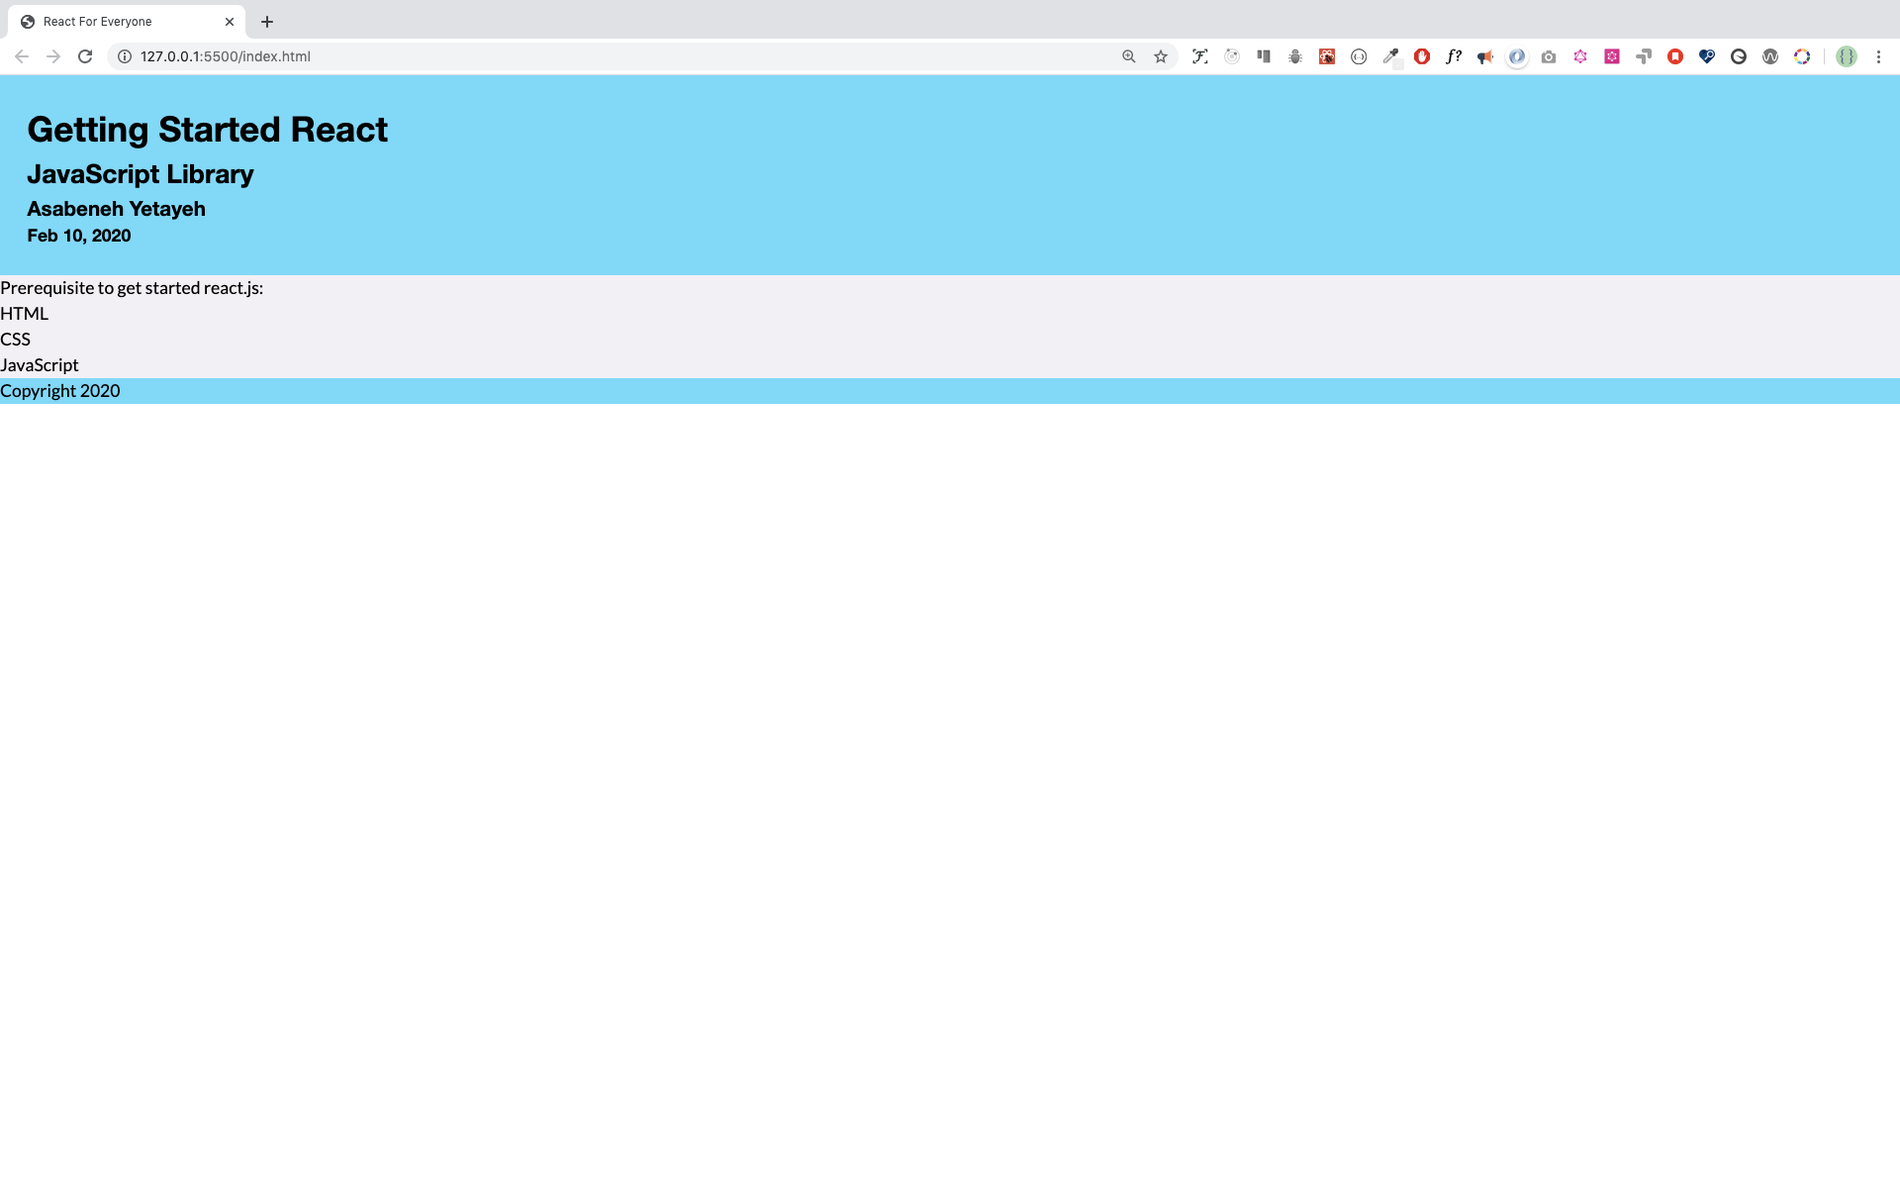
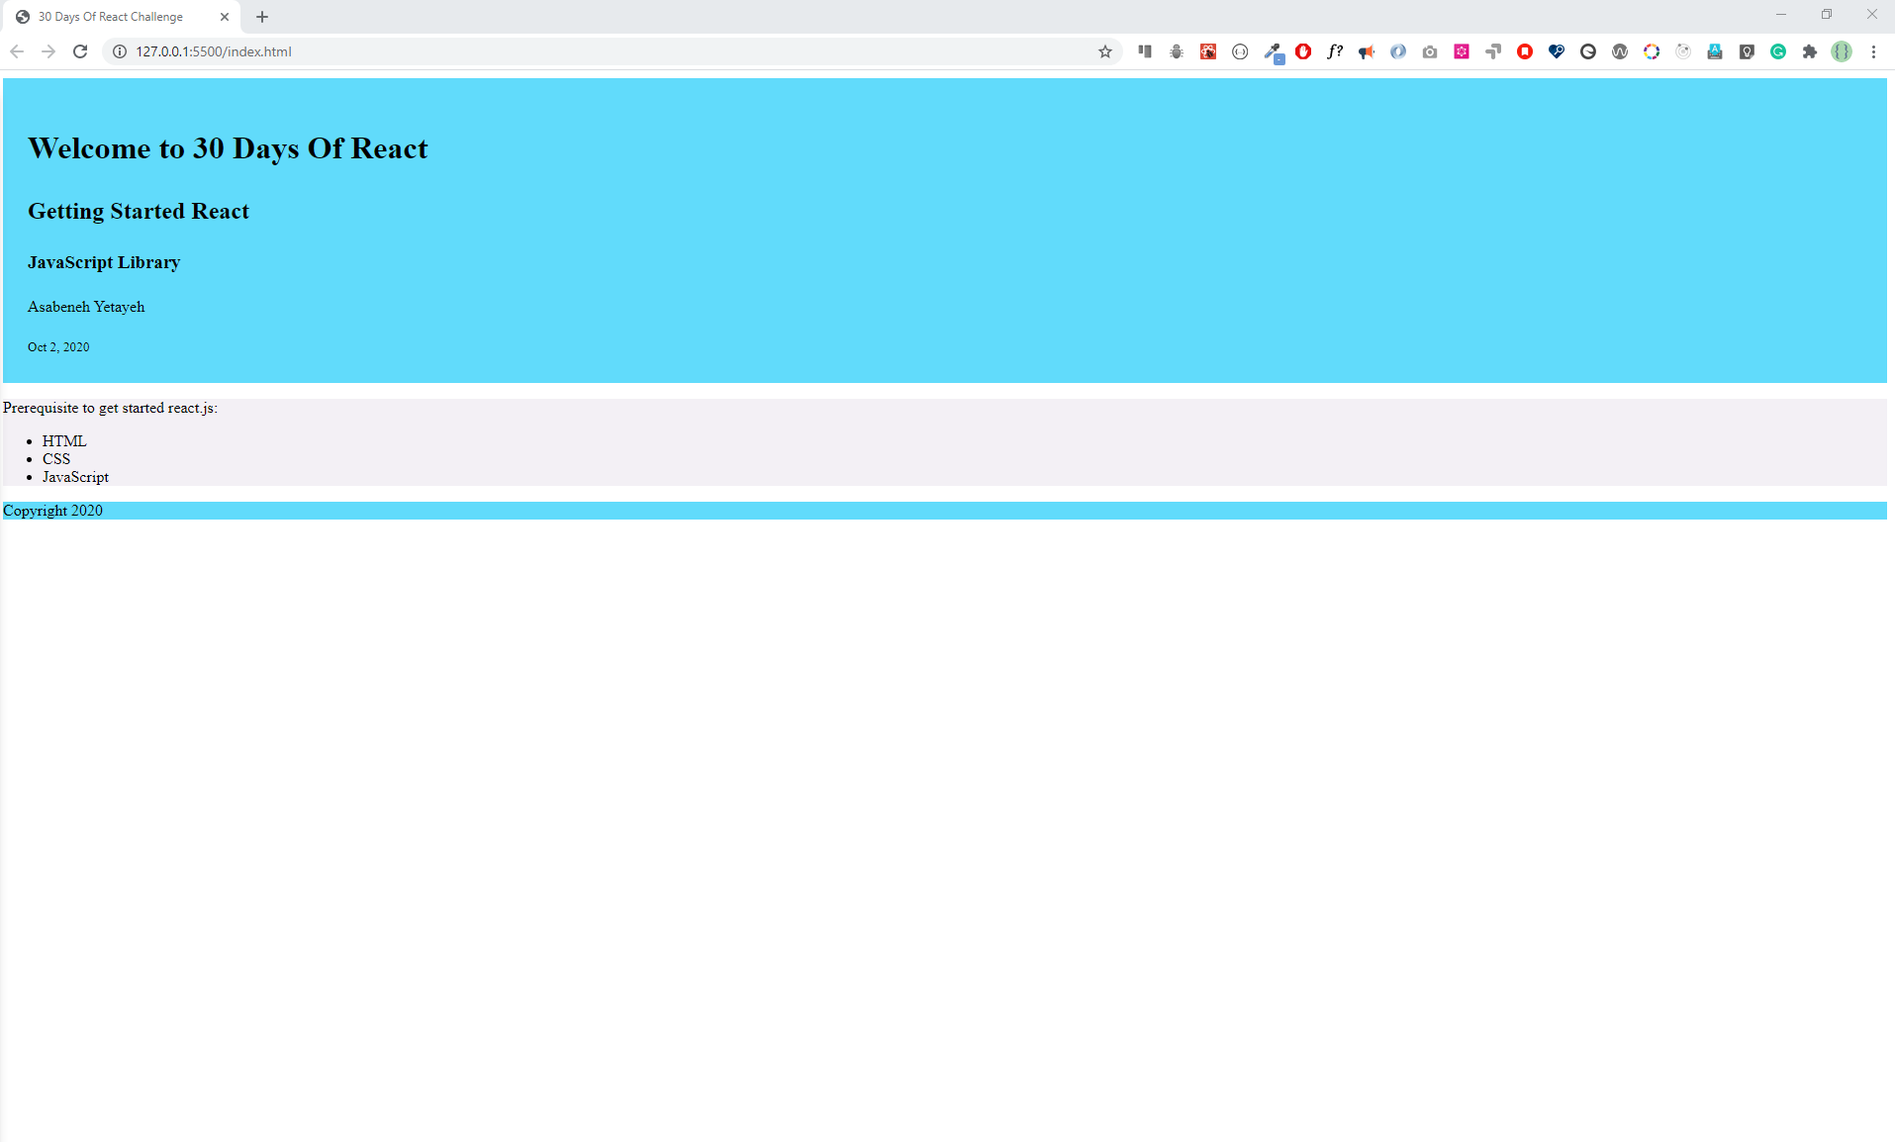
some fixes

diff --git a/02_Day_Introduction_to_React/02_introduction_to_react.md b/02_Day_Introduction_to_React/02_introduction_to_react.md
@@ -9,7 +9,7 @@
 
 <sub>Author:
 <a href="https://www.linkedin.com/in/asabeneh/" target="_blank">Asabeneh Yetayeh</a><br>
-<small> October 1, 2020</small>
+<small> October, 2020</small>
 </sub>
 
 </div>
@@ -33,9 +33,9 @@
     - [Exercises: What is React?](#exercises-what-is-react)
     - [Exercises: Why React?](#exercises-why-react)
     - [Exercises: JSX](#exercises-jsx)
-    - [Exercises:JSX Elements](#exercisesjsx-elements)
-    - [Exercises - Inline Style](#exercises---inline-style)
-    - [Exercises - Internal Styles](#exercises---internal-styles)
+    - [Exercises: JSX Elements](#exercises-jsx-elements)
+    - [Exercises: Inline Style](#exercises-inline-style)
+    - [Exercises: Internal Styles](#exercises-internal-styles)
 
 ## Getting Started React
 
@@ -45,15 +45,12 @@ Prerequisite to get started with React. You should have a good understanding of 
 - CSS
 - JavaScript
 
-If you have the above skills you will enjoy doing react.
-React for Everyone contains anything you need to know about react. In every section, it has some exercise and mini-projects and it is recommended to work them.
-This 30 Days Of React challenge will help you learn the latest version of React and old version step by step. The topics are broken down into 30 days, where each day contains several topics with easy-to-understand explanations, real-world examples and many hands on exercises.
-
+If you have the above skills you will enjoy doing React. React for Everyone contains anything you need to know about react. In every section, it has some exercises and mini-projects and it is recommended to work on them. This 30 Days Of React challenge will help you learn the latest version of React and the old version step by step. The topics are broken down into 30 days, where each day contains several topics with easy-to-understand explanations, real-world examples and many hands on exercises.
 This challenge is designed for beginners and professionals who want to build a web application using React and JavaScript.
 
 ### 1. What is React?
 
-React is a JavaScript library for building a reusable user interfaces(UI). It was initially released on May 29, 2013. The current version is 16.13.1 and somehow it is stable. React was created by Facebook. React makes creating UI components very easy.The official React documentation can be found [here](https://reactjs.org/docs/getting-started.html). When we work with react we do not interact directly with the DOM. React has its own way to handle the DOM(Document Object Model). React uses it virtual DOM to make a new change and it update only the element that needs change. Do not directly interact with DOM when you build react application leave that job for the virtual DOM. In this challenge, we will develop 10-15 web applications using React. A web application or a website is made up of buttons, links, forms with different input fields, header, footer, images, links, sections, articles, texts and boxes with different shapes. We use react to make a reusable UI component of a website.
+React is a JavaScript library for building a reusable user interface(UI). It was initially released on May 29, 2013. The current version is 16.13.1 and somehow it is stable. React was created by Facebook. React makes creating UI components very easy.The official React documentation can be found [here](https://reactjs.org/docs/getting-started.html). When we work with React we do not interact directly with the DOM. React has its own way to handle the DOM(Document Object Model) manipulation. React uses its virtual DOM to make a new change and it updates only the element that needs change. Do not directly interact with DOM when you build a React Application and leave the DOM manipulation job for the React virtual DOM. In this challenge, we will develop 10-15 web applications using React. A web application or a website is made up of buttons, links, forms with different input fields, header, footer, sections, articles, texts, images, audios, videos and boxes with different shapes. We use react to make a reusable UI component of a website.
 
 To summarize:
 
@@ -68,7 +65,7 @@ To summarize:
 
 ### 2. Why React?
 
-React is one of the most popular JavaScript library. Many developers and companies have been using it for the last couple of years. Its popularity has been growing fast and it has a huge community. How do we measure popularity? One measure of popularity could be GitHub repository stars, watchers and fork.Let us compare the popularity of [React](https://github.com/facebook/react) and [Vue](https://github.com/vuejs/vue). As of today, the popularity between the two most popular JavaScript looks like as follows. From the diagram, you can speculate the most popular JavaScript library. You may look at the number of watchers, stars and forks for both React and Vue. These alone will not be a very good measure of popularity but still it tells something. If I have to recommend another JavaScript library next to React would Vue.js.
+React is one of the most popular JavaScript library. Many developers and companies have been using it for the last couple of years. Its popularity has been growing fast and it has a huge community. How do we measure popularity? One measure of popularity could be GitHub repository stars, watchers and forks. Let us compare the popularity of [React](https://github.com/facebook/react) and [Vue](https://github.com/vuejs/vue). As of today, the popularity between the two most popular JavaScript looks like as shown on the diagram. From the diagram, you can speculate the most popular JavaScript library. You may look at the number of watchers, stars and forks for both React and Vue. These alone will not be a very good measure of popularity but still it tells a little bit about the popularity of the two technologies. If I have to recommend another JavaScript library next to React would Vue.js.
 
 #### React vs Vue popularity in October 2020
 
@@ -98,6 +95,7 @@ Why we choose to use react ? We use react because of the following reasons:
 - flexible
 - big community and popular
 - open source
+- High job opportunity
 
 ### 3. JSX
 
@@ -105,29 +103,29 @@ JSX stands for JavaScript XML. JSX allows us to write HTML elements with JavaScr
 
 ```js
 // JSX syntax
-// we don't need to use string when we use JSX
+// we don't need to use quotes with  use JSX
 
 const jsxElement = <h1>I am a JSX element</h1>
 const welcome = <h1>Welcome to 30 Days of React Challenge</h1>
 const data = <small>Oct 2, 2020</small>
 ```
 
-The above strange looking code seems a JavaScrip but it is not JavaScript and it seems an HTML but not completely an HTML element. It is a mix of JavaScript and and an HTML element. JSX can allow us to use HTML in JavaScript. The HTML element in the above JSX is h1.
+The above strange looking code seems a JavaScrip but it is not JavaScript and it seems an HTML but not completely an HTML element. It is a mix of JavaScript and an HTML element. JSX can allow us to use HTML in JavaScript. The HTML element in the above JSX is _h1_ and _small_.
 
 #### JSX Element
 
 As you have seen in the above example, JSX has a JavaScript and HTML like syntax. JSX element could be a single HTML element or many HTML elements wrapped in a parent HTML element.
 
-This JSX element has only on HTML element which is h1.
+This JSX element has only on HTML element which is _h1_.
 
 ```js
-const jsxElement = <h1>I am a JSX element</h1> // JS with HTML
+const jsxElement = <h>I am a JSX element</h1> // JS with HTML
 ```
 
-Let's make more JSX elements by declaring new variables name title, message and its content inside h1.
+Let's make more JSX elements by declaring a new variable name title and content inside h1.
 
 ```js
-const title = <h1>Getting Started React</h1>
+const title = <h2>Getting Started React</h2>
 ```
 
 Let us add a subtitle and other contents to the above JSX element by adding additional HTML elements. Every HTML element should be wrapped by an outer HTML element to create a valid JSX element. The name title variable also should be changed to header because our JSX element is containing almost all the header of the application.
@@ -136,8 +134,8 @@ Let us add a subtitle and other contents to the above JSX element by adding addi
 const header = (
   <header>
     <h1>Welcome to 30 Days Of React</h1>
-    <h1>Getting Started React</h1>
-    <h2>JavaScript Library</h2>
+    <h2>Getting Started React</h2>
+    <h3>JavaScript Library</h3>
   </header>
 )
 ```
@@ -148,15 +146,15 @@ Let us keep adding more elements. Additional HTML element to display the author 
 const header = (
   <header>
     <h1>Welcome to 30 Days Of React</h1>
-    <h1>Getting Started React</h1>
-    <h2>JavaScript Library</h2>
+    <h2>Getting Started React</h2>
+    <h3>JavaScript Library</h3>
     <p>Asabeneh Yetayeh</p>
     <small>Oct 2, 2020</small>
   </header>
 )
 ```
 
-As you can see the header element is a parent element for all the inner HTML elements and JSX must be wrapped by an outer parent element. Without the header HTML element or other parent HTML element the above JSX is invalid.
+As you can see the _header_ element is a parent element for all the inner HTML elements and JSX must be wrapped by an outer parent element. Without the _header_ HTML element or other parent HTML element the above JSX is invalid.
 
 #### Commenting JSX element
 
@@ -167,10 +165,10 @@ We comment codes for different reasons and it is also go to know how to comment 
   /*
  <header>
     <h1>Welcome to 30 Days Of React</h1>
-    <h1>Getting Started React</h1>
-    <h2>JavaScript Library</h2>
-    <h3>Asabeneh Yetayeh</h3>
-    <small>Oct 1, 2020</small>
+    <h2>Getting Started React</h2>
+    <h3>JavaScript Library</h3>
+    <p>Asabeneh Yetayeh</p>
+    <small>Oct 2, 2020</small>
   </header>
 
 */
@@ -179,7 +177,7 @@ We comment codes for different reasons and it is also go to know how to comment 
 
 #### Rendering JSX Element
 
-To render a JSX element to HTML document. We should create on index HTML. The index.html is the only HTML file you will have in any react application. That is why every react application is a single page application. Let us create an index.html file.
+To render a JSX element to HTML document, we should first create an index HTML. The index.html is the only HTML file you will have in any React Application. That is why we call that every React Application is a single page application. Let us create an index.html file.
 
 ```html
 <!DOCTYPE html>
@@ -198,7 +196,7 @@ To render a JSX element to HTML document. We should create on index HTML. The in
 </html>
 ```
 
-As you can see from the above index.html, we have one div with a class root and script. The root div is the get way to connect all react component to the index.html. In the script tag, we will write our JavaScript but the script type will be babel. Babel will transpile the react JSX to pure JavaScript on the browser. Let us add babel to the script. Inside the babel, we can write any pure JavaScript, JSX and in general react code.
+As you can see from the above index.html, we have one div with a class root and script. The root _div_ is the get way to connect all react component to the index.html. In the script tag, we will write our JavaScript but the script _type_ will be _babel_. Babel will _transpile_ the react JSX to pure JavaScript on the browser. Let us add babel to the script. Inside the babel, we can write any pure JavaScript, JSX and in general any react code.
 
 ```html
 <!DOCTYPE html>
@@ -219,7 +217,7 @@ As you can see from the above index.html, we have one div with a class root and 
 </html>
 ```
 
-The babel library is linked to our document and now we can make use of it. The next step is importing React and ReactDOM using CDN or link. Attach the react and react-dom to your file. To test if react is connected to the index.html try to check by doing console.log(React). Open the browser console and you should get an object. If you see an object containing react methods then you managed to link your project with React CND.
+The babel library is linked to our document and now we can make use of it. The next step is importing _React_ and _ReactDOM_ using CDN or link. In order to link React and ReactDOM we attach both packages CDN to the body of index.html. To test if React is linked to the index.html try to check by doing console.log(React). Open the browser console and you should get an object. If you see an object containing React methods then you managed to link your project with React CND and you are ready to use React.
 
 ```html
 <!DOCTYPE html>
@@ -249,9 +247,9 @@ The babel library is linked to our document and now we can make use of it. The n
 </html>
 ```
 
-Now the index.html has everything we need to write react code. Let us get the root element using document.querySelect('.root') and assign it to variable name rootElement. The is the only place we directly interact with DOM.
+Now the index.html has everything we need to write React code. Let us get the root element using document.querySelect('.root') and assign it to a variable name rootElement. The is the only place we directly interact with DOM.
 
-Now, you knew JSX and JSX element. Let us render the JSX element on the browser, in order to do so we need the react and ReactDOM library. In addition to the React and ReactDOM we need babel to transpile the JSX to JavaScript code. The ReactDOM package has a method render. The render method takes two arguments:a JSX element or a component and the root document. See the code below. [Live on code pen](https://codepen.io/Asabeneh/full/JjdbjqK).
+Now, you knew JSX and JSX element. Let us render the JSX element on the browser, in order to do so we need the React and ReactDOM library. In addition to the React and ReactDOM we need babel to transpile the JSX to JavaScript code. The ReactDOM package has a method render. The render method takes two arguments:a JSX element or a component and the root document. See the code below. [Live on code pen](https://codepen.io/Asabeneh/full/JjdbjqK).
 
 ```html
 <!DOCTYPE html>
@@ -291,7 +289,7 @@ Now, you knew JSX and JSX element. Let us render the JSX element on the browser,
 
 ![Rendering JSX](../images/rendering_jsx.png)
 
-Let us render more content. To render more content the JSX element should have more HTML elements. For instance, we can create a header of a website and header may have a title, subtitle, author or date etc. We can render only one on JSX element at a time.
+Let us render more content. To render more content, the JSX element should have more HTML elements. For instance, we can create a header of a website and header may have a title, subtitle, author or date etc. Remember, we can render only one on JSX element at a time.
 [Live on code pen](https://codepen.io/Asabeneh/full/QWbGWeY).
 
 ```html
@@ -322,9 +320,9 @@ Let us render more content. To render more content the JSX element should have m
       // JSX element
       const header = (
         <header>
-          <h1>30 Days Of React Challenge</h1>
-          <h1>Getting Started React</h1>
-          <h2>JavaScript Library</h2>
+          <h1>Welcome to 30 Days Of React</h1>
+          <h2>Getting Started React</h2>
+          <h3>JavaScript Library</h3>
           <p>Asabeneh Yetayeh</p>
           <small>Oct 2, 2020</small>
         </header>
@@ -338,7 +336,7 @@ Let us render more content. To render more content the JSX element should have m
 </html>
 ```
 
-![Rendering more content](../images/rendering_more_js_content_.png)
+![Rendering more content](../images/rendering_more_jsx_content_.png)
 
 We have created a JSX element for the header of the website. How about the main and the footer for the website? Similar to the header, let us create a JSX element for the main and the footer.
 
@@ -369,15 +367,15 @@ const footer = (
 )
 ```
 
-Now, we have three JSX elements:the header, main and footer. The best way to render all the three JSX elements is by wrapping them all in a parent JSX element. To include JSX element inside another JSX element we use the curly bracket, {} and call the name of the JSX inside the curly bracket.
+Now, we have three JSX elements:the header, main and footer. The best way to render all the three JSX elements is by wrapping them all in a parent JSX element or putting them in an array. To include JSX element inside another JSX element we use the curly bracket, {} and call the name of the JSX inside the curly bracket.
 
 ```js
 // JSX element for the header part of the website
 const header = (
   <header>
-    <h1>30 Days Of React Challenge</h1>
-    <h1>Getting Started React</h1>
-    <h2>JavaScript Library</h2>
+    <h1>Welcome to 30 Days Of React</h1>
+    <h2>Getting Started React</h2>
+    <h3>JavaScript Library</h3>
     <p>Asabeneh Yetayeh</p>
     <small>Oct 2, 2020</small>
   </header>
@@ -442,11 +440,11 @@ Now, let us put everything together and render it to the browser. [Live on code 
       // JSX element, header
       const header = (
         <header>
-          <h1>30 Days Of React Challenge</h1>
-          <h1>Getting Started React</h1>
-          <h2>JavaScript Library</h2>
+          <h1>Welcome to 30 Days Of React</h1>
+          <h2>Getting Started React</h2>
+          <h3>JavaScript Library</h3>
           <p>Asabeneh Yetayeh</p>
-          <small>Oct 1, 2020</small>
+          <small>Oct 2, 2020</small>
         </header>
       )
 
@@ -481,12 +479,14 @@ Now, let us put everything together and render it to the browser. [Live on code 
       // we render the JSX element using the ReactDOM package
       // ReactDOM has the render method and the render method takes two argument
       ReactDOM.render(app, rootElement)
+      // or
+      //  ReactDOM.render([header, main, footer], rootElement)
     </script>
   </body>
 </html>
 ```
 
-![Rendering Multiple JSX Elements](../images/rendering_multiple_js_elements.png)
+![Rendering Multiple JSX Elements](../images/rendering_multiple_jsx_elements.png)
 
 Let us apply some style to our JSX elements and see the result.
 
@@ -505,9 +505,9 @@ const header = (
   <header
     style={{ border: '2px solid orange', color: 'black', fontSize: '18px' }}
   >
-    <h1>30 Days Of React Challenge</h1>
-    <h1>Getting Started React</h1>
-    <h2>JavaScript Library</h2>
+    <h1>Welcome to 30 Days Of React</h1>
+    <h2>Getting Started React</h2>
+    <h3>JavaScript Library</h3>
     <p>Asabeneh Yetayeh</p>
     <small>Oct 2, 2020</small>
   </header>
@@ -519,9 +519,9 @@ const style = { border: '2px solid orange', color: 'black', fontSize: '18px' }
 
 const header = (
   <header style={style}>
-    <h1>30 Days Of React Challenge</h1>
-    <h1>Getting Started React</h1>
-    <h2>JavaScript Library</h2>
+    <h1>Welcome to 30 Days Of React</h1>
+    <h2>Getting Started React</h2>
+    <h3>JavaScript Library</h3>
     <p>Asabeneh Yetayeh</p>
     <small>Oct 2, 2020</small>
   </header>
@@ -589,11 +589,11 @@ Now, you know how to use the inline style and how to use className and let us st
       const header = (
         <header style={headerStyles}>
           <div className='header-wrapper'>
-            <h1>30 Days Of React Challenge</h1>
-            <h1>Getting Started React</h1>
-            <h2>JavaScript Library</h2>
+            <h1>Welcome to 30 Days Of React</h1>
+            <h2>Getting Started React</h2>
+            <h3>JavaScript Library</h3>
             <p>Asabeneh Yetayeh</p>
-            <small>Oct 1, 2020</small>
+            <small>Oct 2, 2020</small>
           </div>
         </header>
       )
@@ -757,9 +757,9 @@ Instead of style object using regular styling method is more easier than the abo
       const header = (
         <header>
           <div className='header-wrapper'>
-            <h1>30 Days Of React Challenge</h1>
-            <h1>Getting Started React</h1>
-            <h2>JavaScript Library</h2>
+            <h1>Welcome to 30 Days Of React</h1>
+            <h2>Getting Started React</h2>
+            <h3>JavaScript Library</h3>
             <p>Instructor: Asabeneh Yetayeh</p>
             <small>Date: Oct 1, 2020</small>
           </div>
@@ -843,20 +843,20 @@ Instead of style object using regular styling method is more easier than the abo
 5. What is babel ?
 6. What is a transpiler?
 
-#### Exercises:JSX Elements
+#### Exercises: JSX Elements
 
 1. What is JSX element
 2. Write your name in JSX element and store it in a name variable
 3. Write a JSX element which displays your full name, country, title, gender, email, phone number. Use h1 for the name and p for the rest of the information and store it in a user variable.
 4. Write a footer JSX element
 
-#### Exercises - Inline Style
+#### Exercises: Inline Style
 
 1. Create a style object for the main JSX
 2. Create a style object for the footer and app JSX
 3. Add more styles to the JSX elements
 
-#### Exercises - Internal Styles
+#### Exercises: Internal Styles
 
 1. Apply different styles to your JSX elements
 
